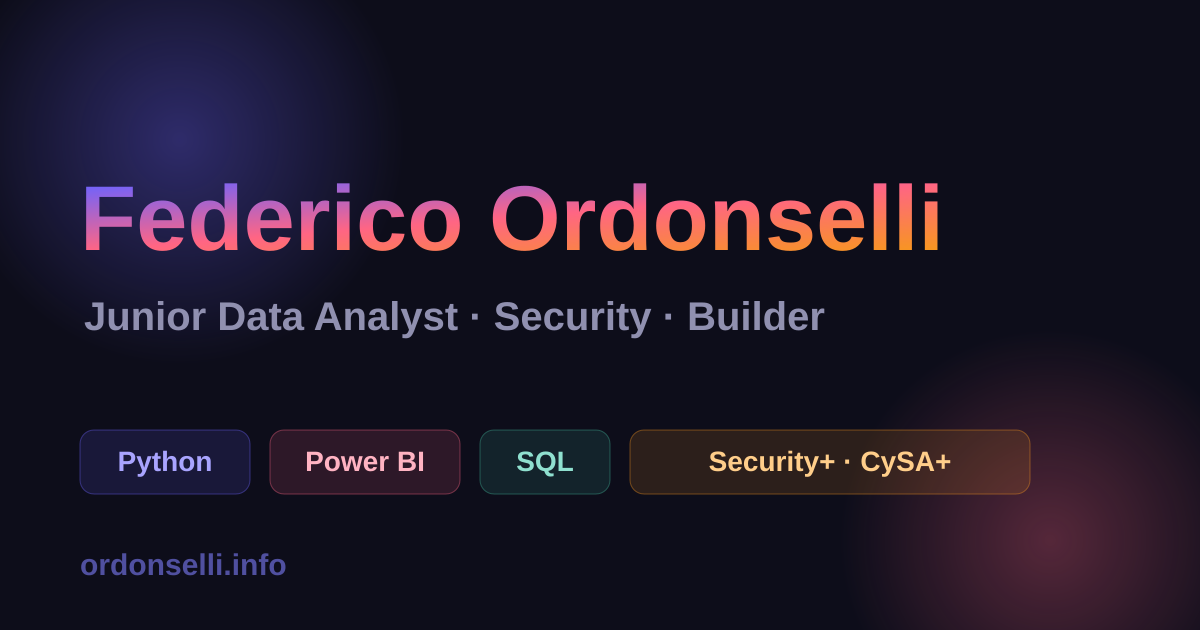
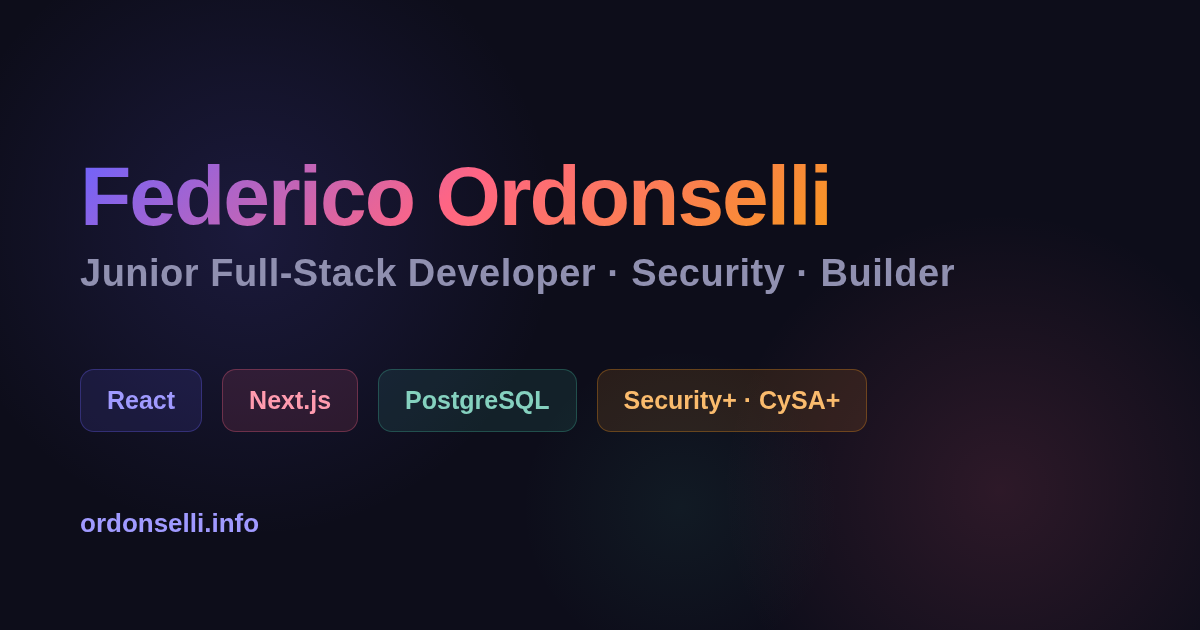
Rigenera l'anteprima social per il posizionamento full-stack
L'immagine condivisa su LinkedIn diceva ancora "Junior Data Analyst" con i
chip Python / Power BI / SQL, mentre i meta tag erano gia' stati allineati:
il primo contatto con il sito contraddiceva il sito stesso.

Aggiunge scripts/og-image.html, il sorgente da cui il PNG viene renderizzato.
Prima non esisteva e l'immagine era un binario orfano — la ragione per cui era
rimasta indietro di un riposizionamento. Il comando per rigenerarla e' nel
commento in testa al file.

Due dettagli non ovvi, entrambi documentati nel sorgente:
- il font e' il generico `sans-serif` dichiarato esplicitamente, perche' il
  sito non dichiara font-family da nessuna parte (index.css e' solo un reset)
  e eredita il sans di default del browser, mentre Chrome headless parte da
  *serif*;
- l'h1 e' inline-block: da block la box del gradiente sarebbe larga quanto il
  viewport e la coda arancione cadrebbe fuori dalle lettere.

Claude-Session: https://claude.ai/code/session_01PtqMUkAnNZUzD93bE5umQf

diff --git a/scripts/og-image.html b/scripts/og-image.html
@@ -1,0 +1,83 @@
+<!doctype html>
+<!--
+  Sorgente dell'anteprima social (public/og-image.png, 1200x630).
+
+  Rigenerare dopo ogni cambio di posizionamento (ruolo, stack, dominio):
+
+    CHROME=~/.cache/ms-playwright/chromium-1228/chrome-linux64/chrome
+    $CHROME --headless --disable-gpu --no-sandbox --hide-scrollbars \
+      --window-size=1200,630 --default-background-color=00000000 \
+      --screenshot=public/og-image.png scripts/og-image.html
+
+  Il font e' il generico `sans-serif`, non un font scelto: il sito non dichiara
+  font-family da nessuna parte (index.css e' solo un reset), quindi eredita il
+  sans di default del browser e l'immagine deve fare lo stesso. Attenzione: il
+  default di Chrome headless e' *serif*, va dichiarato esplicitamente.
+-->
+<html>
+  <head>
+    <meta charset="utf-8" />
+    <style>
+      html, body { margin: 0; padding: 0; }
+      body {
+        width: 1200px; height: 630px;
+        font-family: sans-serif;
+        background: #0d0d1a;
+        position: relative; overflow: hidden;
+      }
+      /* Gli stessi orb della home (HomePage.jsx), fermi invece che animati. */
+      .orb { position: absolute; border-radius: 50%; }
+      .orb-1 { top: -80px;  left: -60px;  width: 620px; height: 620px;
+               background: radial-gradient(circle, #6C63FF26, transparent 70%); }
+      .orb-2 { bottom: -140px; right: -80px; width: 560px; height: 560px;
+               background: radial-gradient(circle, #FF658422, transparent 70%); }
+      .orb-3 { top: 55%; right: 30%; width: 320px; height: 320px;
+               background: radial-gradient(circle, #43B89C14, transparent 70%); }
+
+      .content { position: relative; z-index: 1; padding: 150px 0 0 80px; }
+
+      h1 {
+        display: inline-block;
+        margin: 0 0 10px;
+        font-size: 84px; font-weight: 900; letter-spacing: -2px; line-height: 1.1;
+        background: linear-gradient(135deg, #6C63FF, #FF6584, #F7971E);
+        -webkit-background-clip: text;
+        -webkit-text-fill-color: transparent;
+      }
+      .role {
+        margin: 0 0 74px;
+        font-size: 38px; font-weight: 700; letter-spacing: 0.5px; color: #9090b0;
+      }
+      .chips { display: flex; gap: 20px; margin-bottom: 76px; }
+      .chip {
+        padding: 16px 26px; border-radius: 14px;
+        font-size: 25px; font-weight: 700;
+      }
+      /* Tinte schiarite come lighten(colore, 0.35) in src/lib/color.js:
+         gli accenti pieni non arrivano a 4.5:1 sul fondo scuro. */
+      .c1 { color: #a09aff; background: #6C63FF1f; border: 1px solid #6C63FF4d; }
+      .c2 { color: #ff9baf; background: #FF65841f; border: 1px solid #FF65844d; }
+      .c3 { color: #85d1bf; background: #43B89C1f; border: 1px solid #43B89C4d; }
+      .c4 { color: #fabb6d; background: #F7971E1f; border: 1px solid #F7971E4d; }
+
+      .domain { font-size: 26px; font-weight: 700; color: #a09aff; }
+    </style>
+  </head>
+  <body>
+    <div class="orb orb-1"></div>
+    <div class="orb orb-2"></div>
+    <div class="orb orb-3"></div>
+
+    <div class="content">
+      <h1>Federico Ordonselli</h1>
+      <p class="role">Junior Full-Stack Developer &middot; Security &middot; Builder</p>
+      <div class="chips">
+        <span class="chip c1">React</span>
+        <span class="chip c2">Next.js</span>
+        <span class="chip c3">PostgreSQL</span>
+        <span class="chip c4">Security+ &middot; CySA+</span>
+      </div>
+      <div class="domain">ordonselli.info</div>
+    </div>
+  </body>
+</html>
